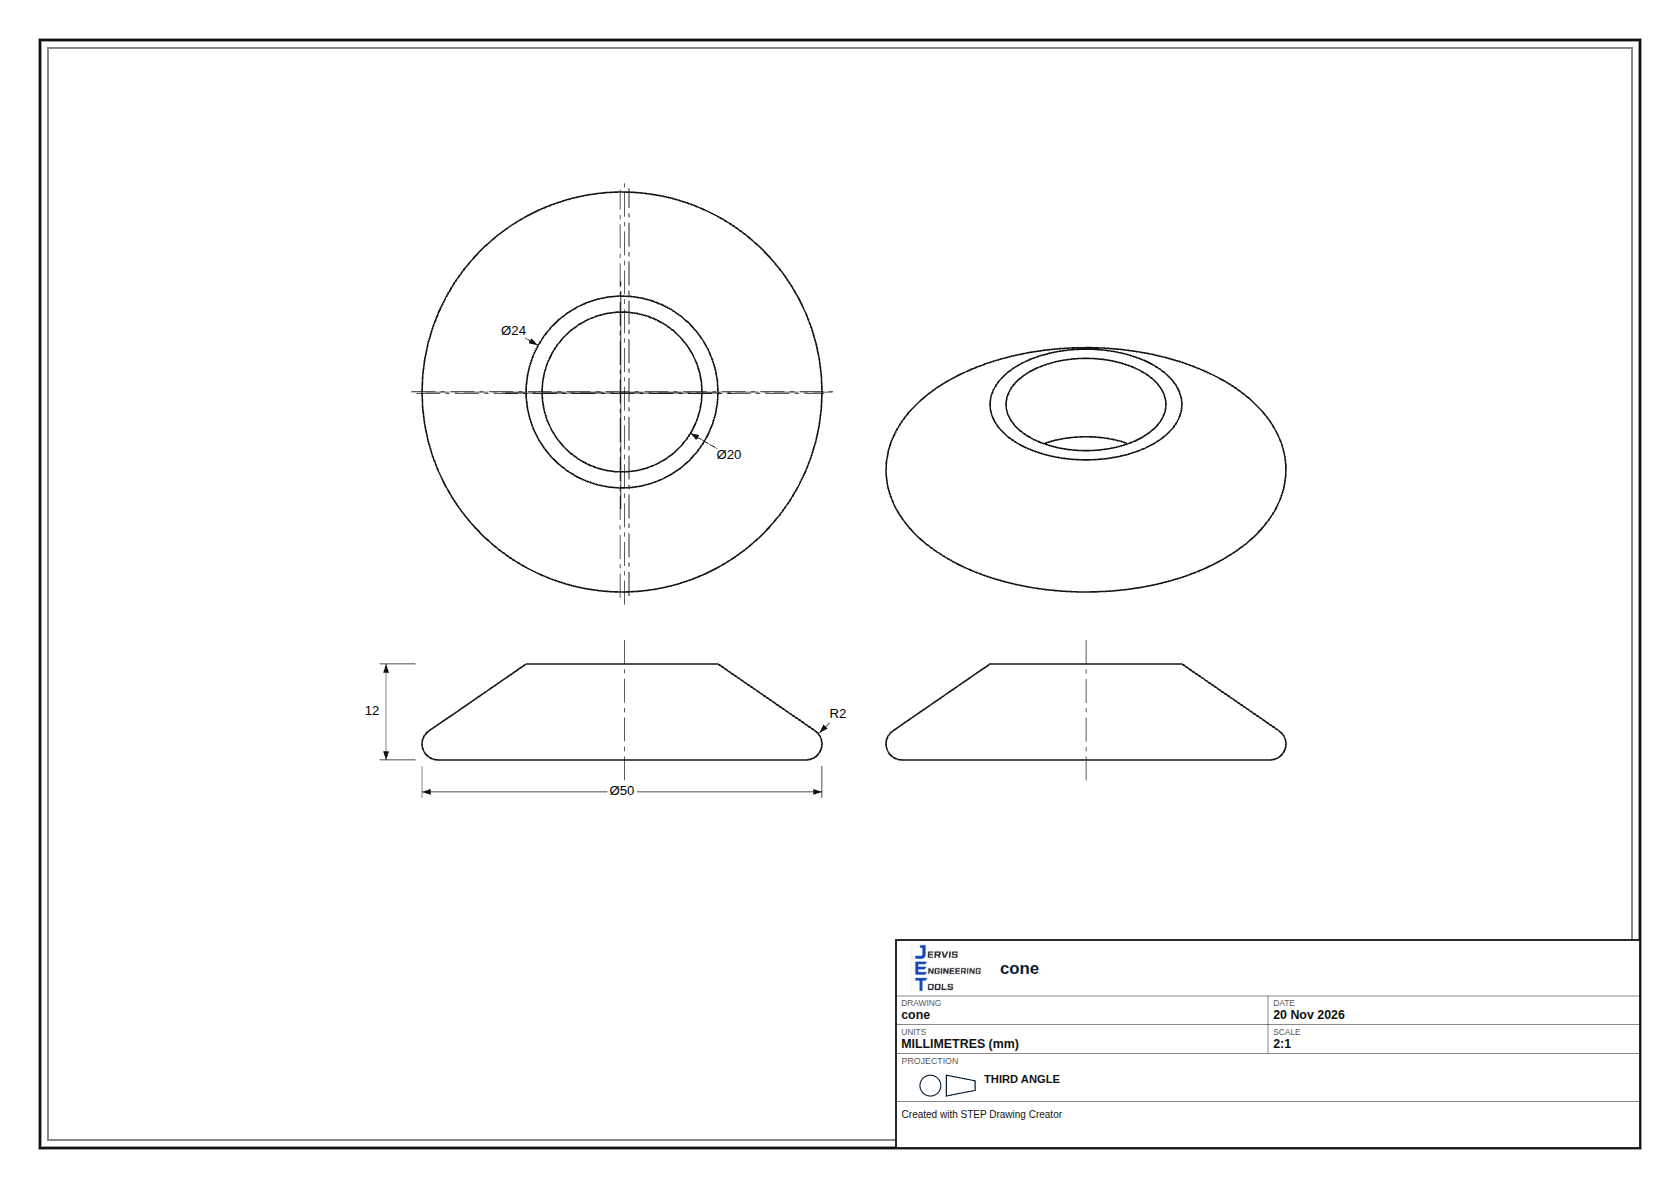
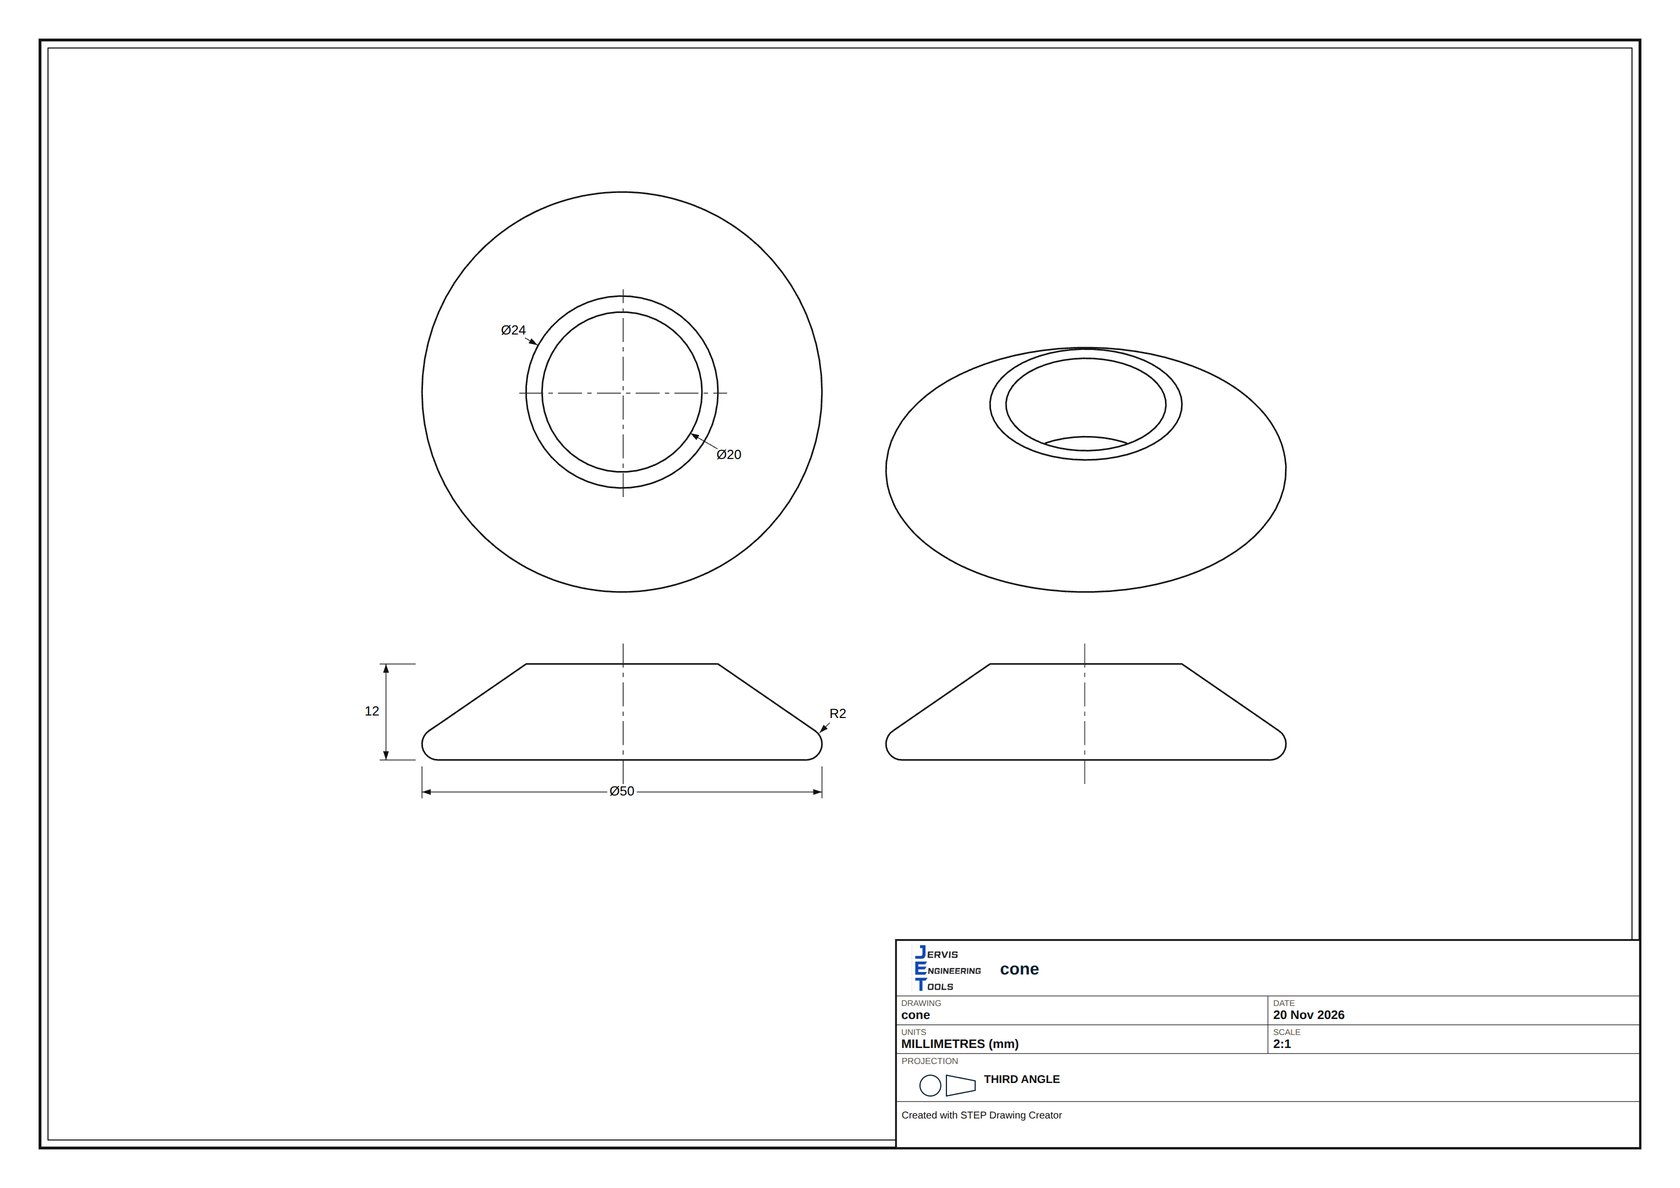
D6-01 Draw one centre mark for concentric circles
Concentric circles share a snapped centre, so the top view gets a single short cross just past the smallest hole. A side view keeps one axis line, extended just past the outline.

diff --git a/js/drawing/sheet.js b/js/drawing/sheet.js
@@ -722,81 +722,137 @@ function dot3(a, b) {
 }
 
 function centreLines(model, view) {
+  const notable = model.circles.all.filter((circle) => circle.hole || circle.diameter >= 8);
   const lines = [];
-  const used = new Set();
-  for (const circle of model.circles.all) {
-    if (!circle.hole && circle.diameter < 8) continue;
-    const align = Math.abs(dot3(circle.normal, view.frame.eye));
-    const cx = dot3(circle.center, view.frame.right) - view.extent.midX;
-    const cy = dot3(circle.center, view.frame.up) - view.extent.midY;
-    if (align > 0.82) {
-      const extra = circle.radius + 2.5;
-      lines.push([[cx - extra, cy], [cx + extra, cy]]);
-      lines.push([[cx, cy - extra], [cx, cy + extra]]);
-    }
+  const faceOn = notable.filter((circle) => Math.abs(dot3(circle.normal, view.frame.eye)) > 0.82);
+  for (const cluster of clusterByCentre(faceOn)) {
+    const radius = Math.min(...cluster.map((circle) => circle.radius));
+    const reach = Math.max(radius + 3, 6);
+    const [cx, cy] = projectCentre(meanPoint(cluster), view);
+    lines.push([[cx - reach, cy], [cx + reach, cy]]);
+    lines.push([[cx, cy - reach], [cx, cy + reach]]);
   }
-  const axes = [];
-  for (const circle of model.circles.all) {
-    if (!circle.hole && circle.diameter < 8) continue;
-    const key = `${Math.round(circle.center[0])},${Math.round(circle.center[1])},${Math.round(circle.center[2])},${Math.round(circle.normal[0] * 5)}`;
-    if (used.has(key)) continue;
-    const group = model.circles.all.filter((other) => coaxial(circle, other));
-    for (const item of group) {
-      used.add(`${Math.round(item.center[0])},${Math.round(item.center[1])},${Math.round(item.center[2])},${Math.round(item.normal[0] * 5)}`);
-    }
-    axes.push(group);
-  }
-  for (const group of axes) {
-    const circle = group[0];
-    const align = Math.abs(dot3(circle.normal, view.frame.eye));
-    if (align > 0.35) continue;
-    const origin = [
-      dot3(circle.center, view.frame.right) - view.extent.midX,
-      dot3(circle.center, view.frame.up) - view.extent.midY,
-    ];
-    const axis = [
-      dot3(circle.normal, view.frame.right),
-      dot3(circle.normal, view.frame.up),
-    ];
-    const hyp = Math.hypot(axis[0], axis[1]) || 1;
-    axis[0] /= hyp;
-    axis[1] /= hyp;
-    let minT = 0;
-    let maxT = 0;
-    for (const other of group) {
-      const p = [
-        dot3(other.center, view.frame.right) - view.extent.midX,
-        dot3(other.center, view.frame.up) - view.extent.midY,
-      ];
-      const t = (p[0] - origin[0]) * axis[0] + (p[1] - origin[1]) * axis[1];
-      minT = Math.min(minT, t);
-      maxT = Math.max(maxT, t);
-    }
-    if (maxT - minT < 1) {
-      minT = -circle.radius;
-      maxT = circle.radius;
+  const edgeOn = notable.filter((circle) => Math.abs(dot3(circle.normal, view.frame.eye)) <= 0.35);
+  for (const cluster of clusterByCentre(edgeOn)) {
+    const centre = meanPoint(cluster);
+    const origin = projectCentre(centre, view);
+    const axis = projectedAxis(cluster[0].normal, view);
+    const minX = view.extent.minX - view.extent.midX;
+    const maxX = view.extent.maxX - view.extent.midX;
+    const minY = view.extent.minY - view.extent.midY;
+    const maxY = view.extent.maxY - view.extent.midY;
+    let minT = Infinity;
+    let maxT = -Infinity;
+    for (const [x, y] of [[minX, minY], [maxX, minY], [minX, maxY], [maxX, maxY]]) {
+      const t = (x - origin[0]) * axis[0] + (y - origin[1]) * axis[1];
+      if (t < minT) minT = t;
+      if (t > maxT) maxT = t;
     }
     lines.push([
       [origin[0] + axis[0] * (minT - 3), origin[1] + axis[1] * (minT - 3)],
       [origin[0] + axis[0] * (maxT + 3), origin[1] + axis[1] * (maxT + 3)],
     ]);
   }
-  return lines;
+  return dedupeCentreLines(lines);
 }
 
-function coaxial(a, b) {
-  const nd = Math.abs(dot3(a.normal, b.normal));
-  if (Math.abs(nd - 1) > 0.08) return false;
+function clusterByCentre(circles) {
+  const parent = circles.map((_, index) => index);
+  const find = (index) => {
+    let at = index;
+    while (parent[at] !== at) at = parent[at];
+    return at;
+  };
+  for (let i = 0; i < circles.length; i += 1) {
+    for (let j = i + 1; j < circles.length; j += 1) {
+      if (!sameCentre(circles[i], circles[j])) continue;
+      const a = find(i);
+      const b = find(j);
+      if (a !== b) parent[b] = a;
+    }
+  }
+  const groups = new Map();
+  circles.forEach((circle, index) => {
+    const id = find(index);
+    if (!groups.has(id)) groups.set(id, []);
+    groups.get(id).push(circle);
+  });
+  return [...groups.values()];
+}
+
+function sameCentre(a, b) {
+  const aligned = Math.abs(Math.abs(dot3(a.normal, b.normal)) - 1);
+  if (aligned > 0.08) return false;
+  const radial = radialOffset(a, b);
+  // Snap the offset onto a 0.15 mm step, then treat one axis as one centre.
+  // Fitted centres of a single axis wander by about a millimetre.
+  const snapped = Math.round(radial / 0.15) * 0.15;
+  return snapped <= 0.15 || radial <= 1.2;
+}
+
+function radialOffset(a, b) {
   const dx = b.center[0] - a.center[0];
   const dy = b.center[1] - a.center[1];
   const dz = b.center[2] - a.center[2];
-  const axial = Math.abs(dx * a.normal[0] + dy * a.normal[1] + dz * a.normal[2]);
-  const crossLen = Math.hypot(
-    dy * a.normal[2] - dz * a.normal[1],
-    dz * a.normal[0] - dx * a.normal[2],
-    dx * a.normal[1] - dy * a.normal[0],
+  const along = dx * a.normal[0] + dy * a.normal[1] + dz * a.normal[2];
+  return Math.hypot(
+    dx - a.normal[0] * along,
+    dy - a.normal[1] * along,
+    dz - a.normal[2] * along,
   );
-  return crossLen < Math.max(0.7, Math.min(a.radius, b.radius) * 0.12) || axial < 0.4;
+}
+
+function meanPoint(circles) {
+  const centre = [0, 0, 0];
+  for (const circle of circles) {
+    centre[0] += circle.center[0];
+    centre[1] += circle.center[1];
+    centre[2] += circle.center[2];
+  }
+  return centre.map((value) => Math.round((value / circles.length) / 0.15) * 0.15);
+}
+
+function projectCentre(point, view) {
+  return [
+    dot3(point, view.frame.right) - view.extent.midX,
+    dot3(point, view.frame.up) - view.extent.midY,
+  ];
+}
+
+function projectedAxis(normal, view) {
+  let x = dot3(normal, view.frame.right);
+  let y = dot3(normal, view.frame.up);
+  const hyp = Math.hypot(x, y) || 1;
+  x /= hyp;
+  y /= hyp;
+  if (x < -1e-6 || (Math.abs(x) <= 1e-6 && y < 0)) {
+    x = -x;
+    y = -y;
+  }
+  return [x, y];
+}
+
+function dedupeCentreLines(lines) {
+  const kept = [];
+  for (const line of lines) {
+    const duplicate = kept.some((other) => centreGap(line, other) <= 0.3);
+    if (!duplicate) kept.push(line);
+  }
+  return kept;
+}
+
+function centreGap(a, b) {
+  const ax = a[1][0] - a[0][0];
+  const ay = a[1][1] - a[0][1];
+  const bx = b[1][0] - b[0][0];
+  const by = b[1][1] - b[0][1];
+  const al = Math.hypot(ax, ay) || 1;
+  const bl = Math.hypot(bx, by) || 1;
+  const cross = Math.abs((ax / al) * (by / bl) - (ay / al) * (bx / bl));
+  if (cross > 0.05) return Infinity;
+  const mx = (b[0][0] + b[1][0]) / 2;
+  const my = (b[0][1] + b[1][1]) / 2;
+  return Math.abs(ay * (mx - a[0][0]) - ax * (my - a[0][1])) / al;
 }
 
 function renderPaths(view, place, scale) {
